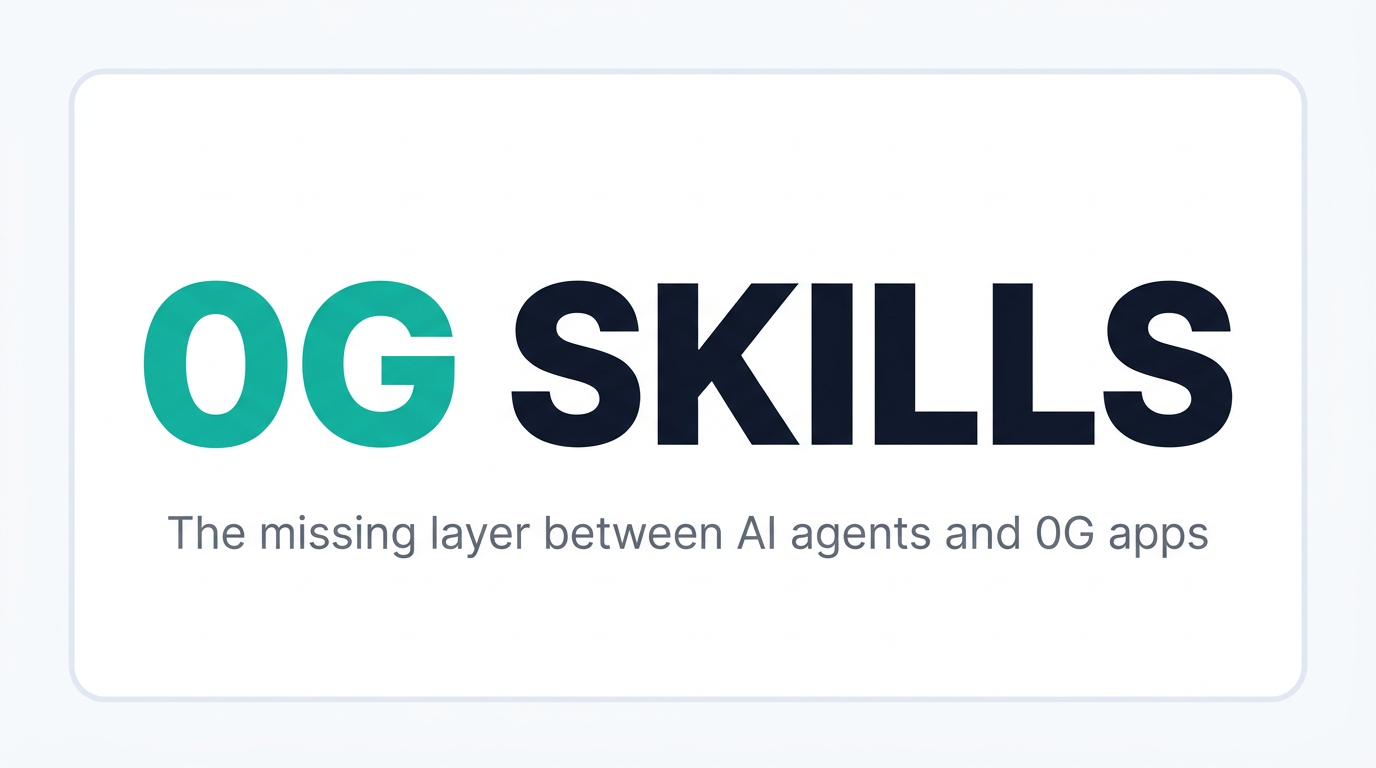
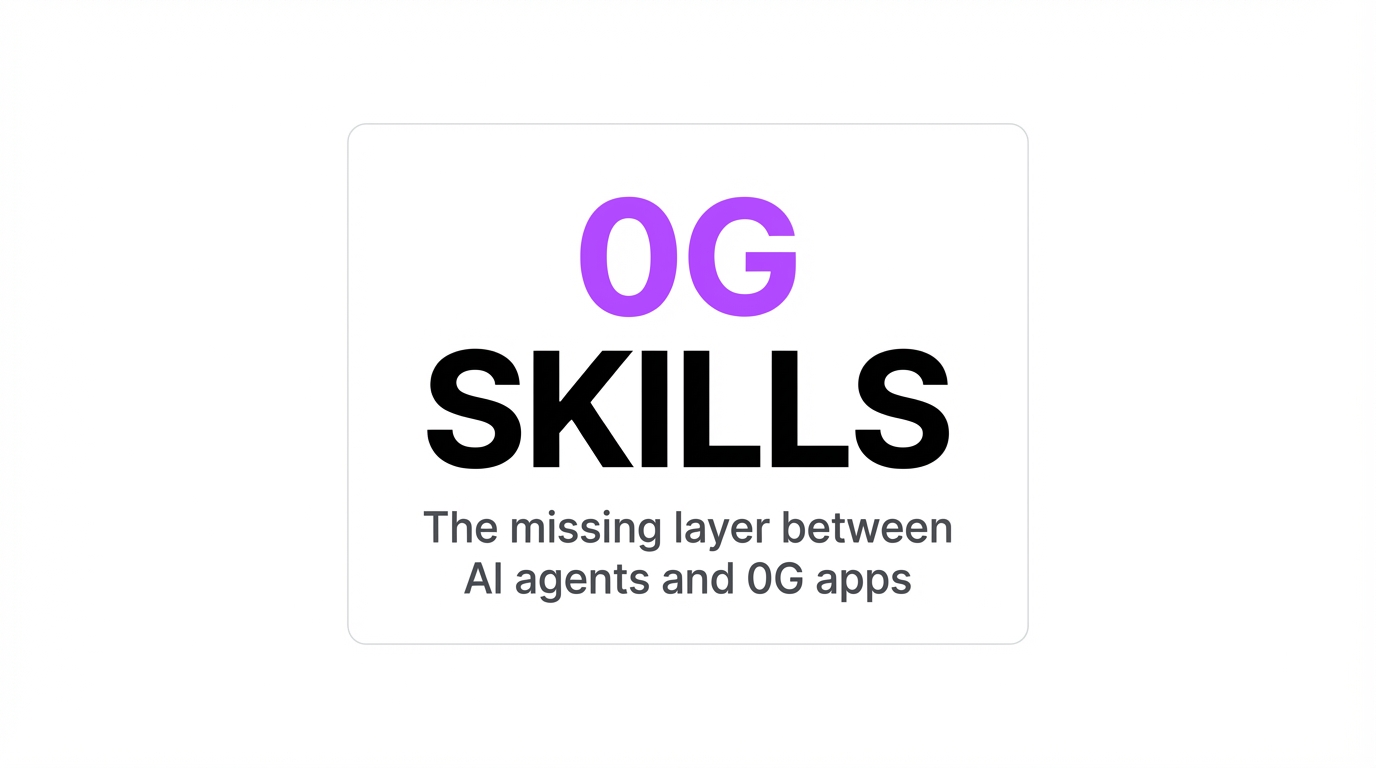
style: brand purple #B75FFF, white/black UI, updated wordmarks and OG image
Made-with: Cursor

diff --git a/index.html b/index.html
@@ -4,9 +4,9 @@
   <meta charset="utf-8" />
   <meta name="viewport" content="width=device-width, initial-scale=1" />
   <meta name="color-scheme" content="light" />
-  <meta name="theme-color" content="#14b8a6" media="(prefers-color-scheme: light)" />
-  <meta name="theme-color" content="#0f766e" media="(prefers-color-scheme: dark)" />
-  <meta name="msapplication-TileColor" content="#14b8a6" />
+  <meta name="theme-color" content="#B75FFF" media="(prefers-color-scheme: light)" />
+  <meta name="theme-color" content="#9333ea" media="(prefers-color-scheme: dark)" />
+  <meta name="msapplication-TileColor" content="#B75FFF" />
   <link rel="canonical" href="https://0gskills.com/" />
   <title>0GSKILLS — ZeroG Knowledge for AI Agents</title>
   <meta name="description" content="The missing layer between AI agents and 0G apps. Modular SKILL.md guides for 0G Chain — fetch with curl or fetch()." />
@@ -21,7 +21,7 @@
   <meta property="og:image:width" content="1376" />
   <meta property="og:image:height" content="768" />
   <meta property="og:image:type" content="image/png" />
-  <meta property="og:image:alt" content="0GSKILLS — teal and slate wordmark on light background. The missing layer between AI agents and 0G apps." />
+  <meta property="og:image:alt" content="0GSKILLS — purple (#B75FFF) and black wordmark on white. The missing layer between AI agents and 0G apps." />
   <meta name="twitter:card" content="summary_large_image" />
   <meta name="twitter:title" content="0GSKILLS" />
   <meta name="twitter:description" content="The missing layer between AI agents and 0G apps — fetch SKILL.md over HTTPS." />
@@ -48,17 +48,17 @@
   </script>
   <style>
     :root {
-      --bg: #f5f7fb;
-      --bg-alt: #f8fafc;
+      --bg: #ffffff;
+      --bg-alt: #fafafa;
       --panel: #ffffff;
-      --text: #0f172a;
-      --muted: #64748b;
-      --accent: #14b8a6;
-      --accent-hover: #0d9488;
-      --border: #e2e8f0;
-      --link: #0d9488;
-      --shadow: 0 1px 2px rgba(0, 0, 0, 0.05);
-      --shadow-hover: 0 4px 12px rgba(15, 23, 42, 0.08);
+      --text: #000000;
+      --muted: #525252;
+      --accent: #B75FFF;
+      --accent-hover: #9d4edd;
+      --border: #e5e5e5;
+      --link: #9333ea;
+      --shadow: 0 1px 2px rgba(0, 0, 0, 0.06);
+      --shadow-hover: 0 4px 16px rgba(183, 95, 255, 0.15);
     }
     * { box-sizing: border-box; }
     body {
@@ -162,7 +162,7 @@
     .btn:hover {
       text-decoration: none;
       box-shadow: var(--shadow-hover);
-      border-color: #cbd5e1;
+      border-color: #d4d4d4;
     }
     .btn.primary {
       background: var(--accent);
@@ -215,7 +215,7 @@
     }
     .skills li:hover {
       box-shadow: var(--shadow-hover);
-      border-color: #cbd5e1;
+      border-color: #d4d4d4;
       transform: translateY(-1px);
     }
     @media (min-width: 640px) {
@@ -270,16 +270,16 @@
         <svg xmlns="http://www.w3.org/2000/svg" viewBox="0 0 800 200" width="800" height="200" role="img" aria-label="0GSKILLS. Spelled: 0 (zero), G, S, K, I, L, L, S.">
           <defs>
             <linearGradient id="hero-grad" x1="0" y1="0" x2="1" y2="0">
-              <stop offset="0%" stop-color="#14b8a6"/>
-              <stop offset="100%" stop-color="#0d9488"/>
+              <stop offset="0%" stop-color="#B75FFF"/>
+              <stop offset="100%" stop-color="#9333ea"/>
             </linearGradient>
           </defs>
-          <rect width="800" height="200" fill="#f8fafc"/>
-          <rect x="20" y="20" width="760" height="160" rx="12" fill="#ffffff" stroke="#e2e8f0" stroke-width="2"/>
+          <rect width="800" height="200" fill="#ffffff"/>
+          <rect x="20" y="20" width="760" height="160" rx="12" fill="#ffffff" stroke="#e5e5e5" stroke-width="2"/>
           <text x="48" y="118" font-family="system-ui, -apple-system, BlinkMacSystemFont, 'Segoe UI', Roboto, Helvetica, Arial, sans-serif" font-size="76" font-weight="800" letter-spacing="-0.03em">
-            <tspan fill="url(#hero-grad)">0G</tspan><tspan fill="#0f172a">SKILLS</tspan>
+            <tspan fill="url(#hero-grad)">0G</tspan><tspan fill="#000000">SKILLS</tspan>
           </text>
-          <text x="48" y="164" font-family="ui-monospace, SFMono-Regular, Menlo, Monaco, Consolas, monospace" font-size="19" fill="#64748b" letter-spacing="0.02em">0 (zero) · G · S · K · I · L · L · S</text>
+          <text x="48" y="164" font-family="ui-monospace, SFMono-Regular, Menlo, Monaco, Consolas, monospace" font-size="19" fill="#525252" letter-spacing="0.02em">0 (zero) · G · S · K · I · L · L · S</text>
         </svg>
       </div>
       <h1 class="page-title">0GSKILLS</h1>
